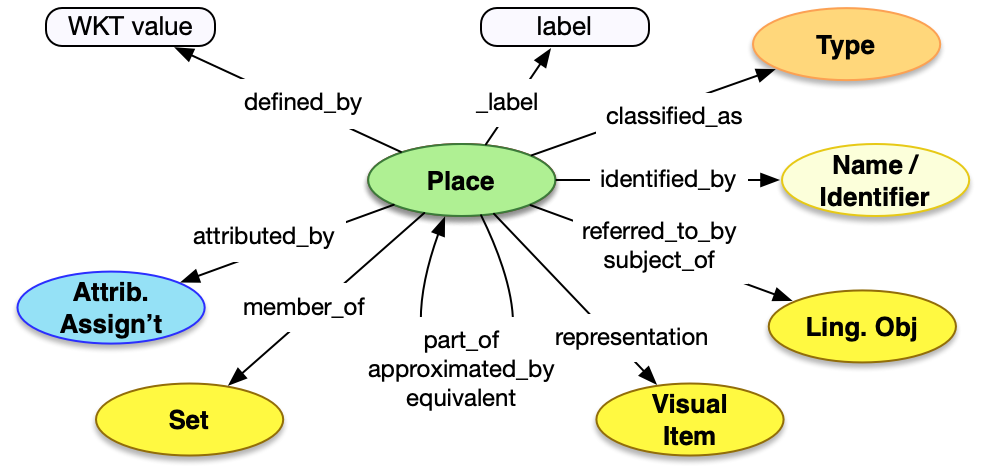
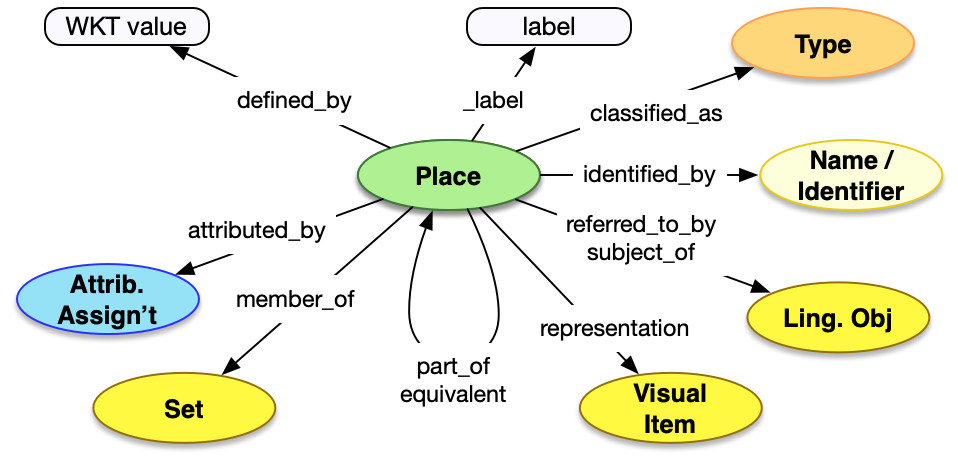
remove approximated_by

diff --git a/docs/api/1.0/endpoint/place/index.md b/docs/api/1.0/endpoint/place/index.md
@@ -43,7 +43,6 @@ Dereferencing an entity via the Place endpoint would result in a JSON-LD documen
 | `subject_of`      | array         | Optional    | An array of json objects, each of which is a reference to a [Textual Work](../textual_work/), the content of which focuses on the current Place, and MUST follow the requirements for a [reference](../../shared/reference) |
 | `attributed_by`   | array         | Optional    | An array of json objects, each of which is a [Relationship Assignment](../../shared/assignment/) that relates the current Place to another entity |
 | `part_of`         | array         | Optional    | An array of json objects, each of which is a Place that the current Place falls within and MUST follow the requirements for a [reference](../../shared/reference/) to a Place |
-| `approximated_by` | array         | Optional    | An array of json objects, each of which is an approximation of the current Place and MUST follow the requirements for a [reference](../../shared/reference/) to a Place |
 | `defined_by`      | string        | Optional    | A string containing the [WKT](https://en.wikipedia.org/wiki/Well-known_text_representation_of_geometry) representation of the geometry of the Place |
 
 
@@ -83,7 +82,6 @@ The JSON for a Place entry for the city of Los Angeles could be as below.
 * It is `identified_by` an `Identifier`, with the `content` "06-44000"
 * It is `defined_by` a particular WKT Polygon
 * It is `referred_to_by` a `LinguisticObject`, which is `classified_as` a Description (_aat:300411780_), and has `content` of "Los Angeles is the largest city in California"
-* It is `approximated_by` another `Place`, which is the centroid of Los Angeles
 * It is `part_of` another `Place`, which is the state California
 * It is a `member_of` the `Set` of top 10 cities in the USA
 * It is equivalent to the TGN entry 
@@ -95,7 +93,6 @@ top.identified_by = model.Name(content="Los Angeles")
 top.identified_by = model.Identifier(content="06-44000")
 top.referred_to_by = vocab.Description(content="Los Angeles is the largest city in California")
 top.defined_by = "POLYGON((-118.574 34.185,-117.558 34.185,-117.5585 33.512,-118.574 33.512,-118.5745 34.185))"
-top.approximated_by = model.Place(label="Los Angeles Centroid")
 top.part_of = model.Place(label="California")
 top.member_of = model.Set(label="Top 10 Cities in USA")
 top.equivalent = model.Place(ident="http://vocab.getty.edu/tgn/7023900", label="Los Angeles")

diff --git a/docs/model/place/index.md b/docs/model/place/index.md
@@ -46,20 +46,17 @@ top.defined_by = "POLYGON((165.74 -33.55, -179.96 -33.55, -179.96 -47.8, 165.74 
 
 ### Geospatial Approximation
 
-All recorded locations are approximate to some degree. It may be desirable to capture this approximation separately from the actual place, especially when that approximation is very uncertain. Especially if the place is the exact location of several events, and perhaps an address or other information is known, but not the exact geospatial coordinates.  
-
-Secondly, as a place is defined by exactly one definition, but there might be multiple approximations such as a polygon as well as the central point, the real place that an activity occured at can be related to multiple approximate places to capture these different approximations.
-
-
+All recorded locations are approximate to some degree. It may be desirable to capture the exact location separately from a broader area that is known, especially when that approximation is very uncertain. If the place is the exact location of several events, and a name for the place is available but not exact geospatial coordinates or a full address, then this pattern is especially valuable. This is managed using the `part_of` construction -- the specific place is somewhere within the broader area.
+ 
 __Example:__
 
 Many art sales take place in auction houses over time, and while the city might be known, the exact address within the city might not be and it would be wrong to collect all of the art sales within the entire city together.
 
 ```crom
-top = model.Place(ident="auto int-per-segment", label="True Auction House Location")
-p2 = model.Place(label="Auction House Location Approximation")
+top = model.Place(ident="auto int-per-segment", label="Auction House Location")
+p2 = model.Place(label="City of the Auction House")
 p2.defined_by = "POINT(-0.0032937526703165 51.515107154846)"
-top.approximated_by = p2
+top.part_of = p2
 ```
 
 
